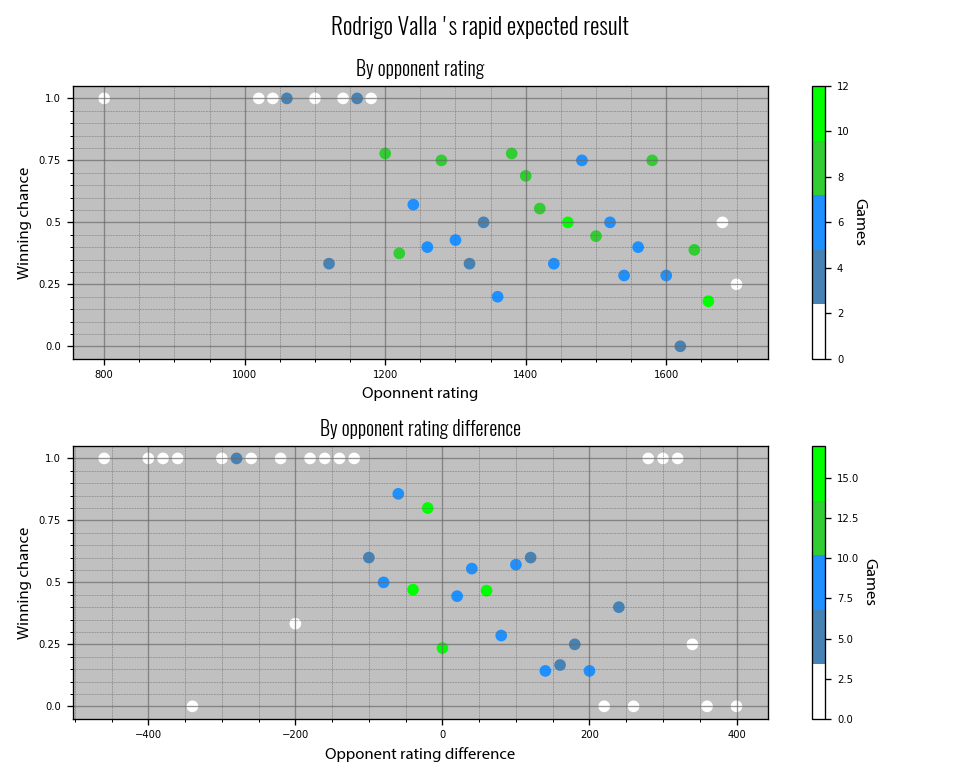
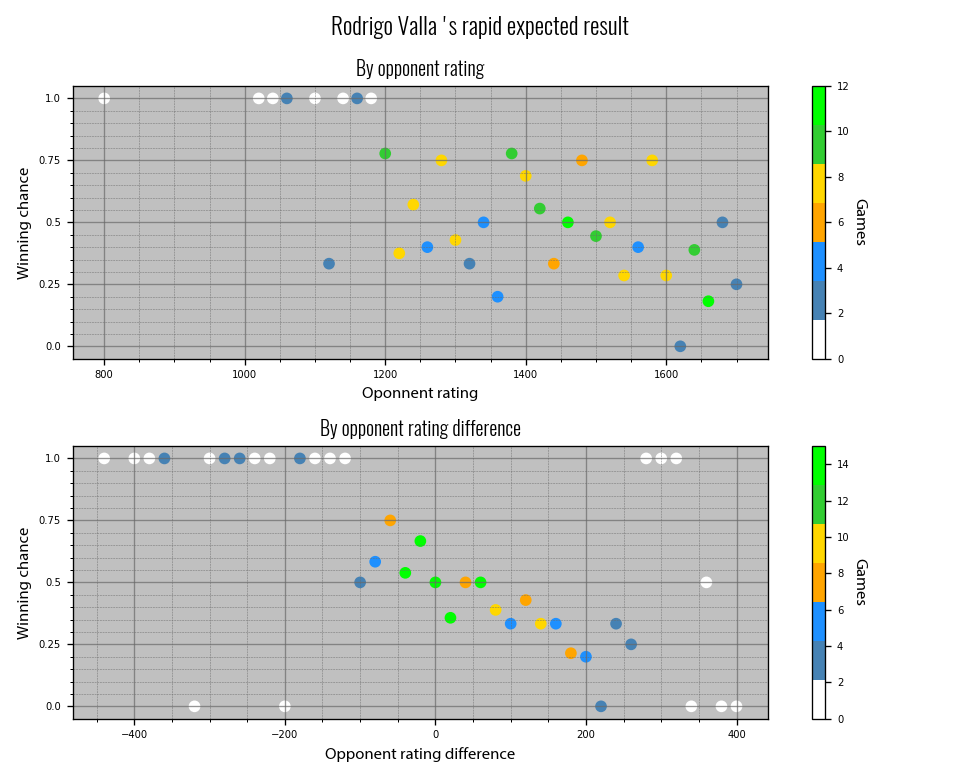
Minor corrections...

diff --git a/player_more_analysis.py b/player_more_analysis.py
@@ -61,13 +61,13 @@ def analyze_day_time():
 	hours["_diff_avg"] = (hours["bullet_diff"] + hours["blitz_diff"] + hours["rapid_diff"]) / 3
 	print("I finished analyzing day times...                    ", end="\n")
 
-#analyze_day_time()
-#hours.to_csv("data/" + player["username"] + "_time_analysis.csv", index=True, index_label="hours")
-#log.write("-- Analyzing games time performance for " + player["name"] + "\n")
+analyze_day_time()
+hours.to_csv("data/" + player["username"] + "_time_analysis.csv", index=True, index_label="hours")
+log.write("-- Analyzing games time performance for " + player["name"] + "\n")
 
 def get_expected_rows(opponent, difference):
 	r = opponent // 20 - 25
-	rd = difference // 20 + 50
+	rd = (difference + 10) // 20 + 50
 	return [int(r), int(rd)]
 
 def get_expected_results():

diff --git a/player_games_charts.py b/player_games_charts.py
@@ -279,8 +279,6 @@ if player["plot_bullet"]:
 	plot_time_analysis("bullet", time_analysis_texts("bullet"))
 	streaks_histogram(ratings[ratings["variant"]=="bullet"], "bullet", 15, streaks_texts("bullet"))
 
-expected_result_scatter(expected_result_texts("bullet"), "bullet")
-
 if player["plot_blitz"]:
 	data = ratings[ratings["variant"]=="blitz"]
 	points = data["points"].cumsum()

diff --git a/log.md b/log.md
@@ -177,11 +177,3 @@
 -- Rodrigo Valla expected results (bullet) was saved.
 -- Rodrigo Valla expected results (blitz) was saved.
 -- Rodrigo Valla expected results (rapid) was saved.
-
-### 2022-04-10:
--- Rodrigo Valla expected results (bullet) was saved.
-
-
-### 2022-04-10:
--- Rodrigo Valla expected results (bullet) was saved.
-
